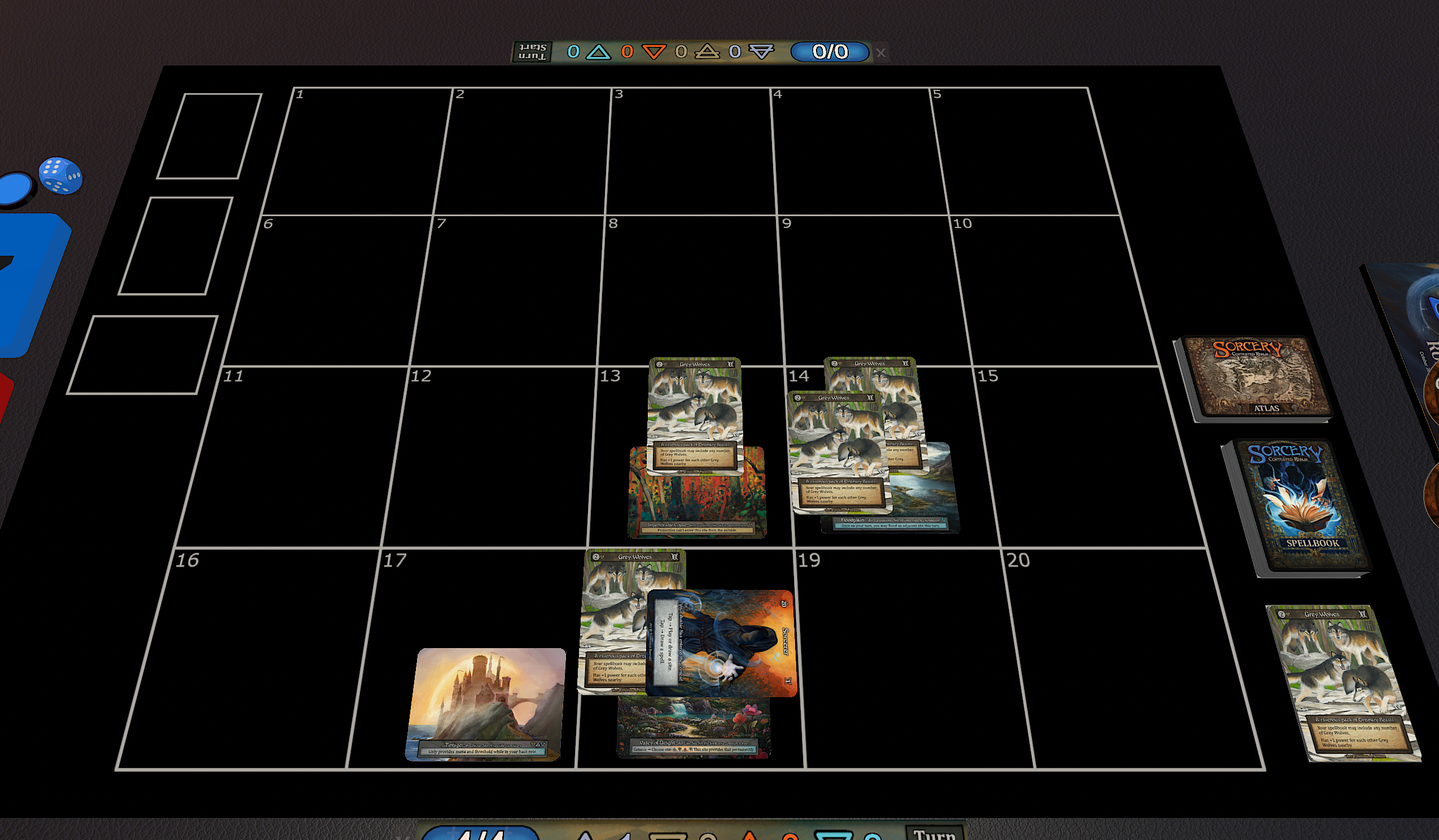
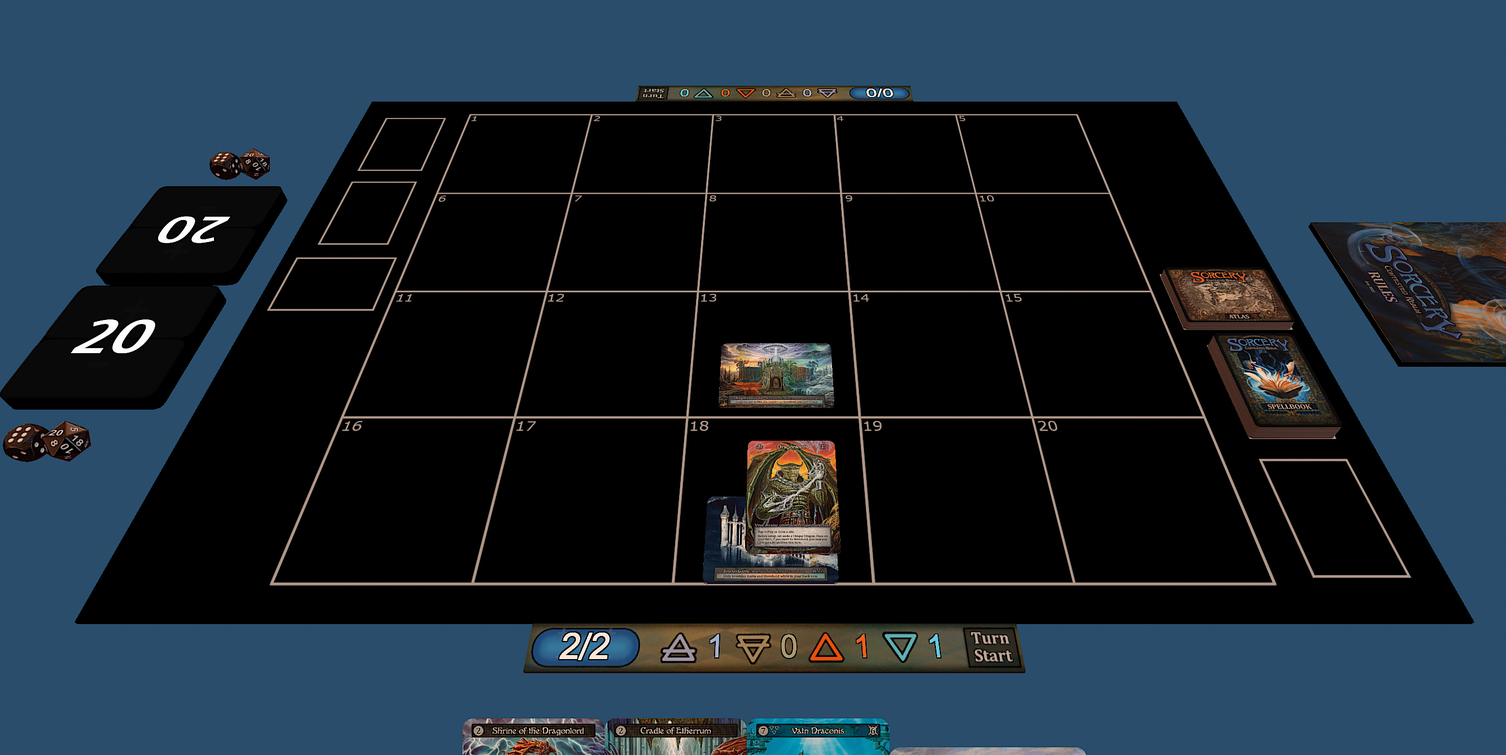
update file paths, add background color

diff --git a/README.md b/README.md
@@ -5,7 +5,7 @@
 ### How do I install this?
 
 1. Locate the TTS `Mods/Images` asset folder.
-2. Place [this black playmat image](httpssteamusercontentaakamaihdnetugc2458493930748633818AC370E3402228A9FB441339F4A1536AA897CF43D.jpg) into this directory (do not change the file name).
+2. Place [this black playmat image](httpsd27a44hjr9gen3cloudfrontnetassetsttsplaymatsartplaymatjpg.jpg) into this directory (do not change the file name).
 
 ### Where is the TTS Images folder?
 
@@ -30,12 +30,16 @@ I used the free [image editor GIMP](https://www.gimp.org/downloads/).
 1. Download and install GIMP, then open the [.xcf file](files/layer_file.xcf).
 1. Replace the `background` layer with any image you would like.
 1. `Export As` with the filename:
-    *  `httpssteamusercontentaakamaihdnetugc2458493930748633818AC370E3402228A9FB441339F4A1536AA897CF43D.jpg`
+    *  `httpsd27a44hjr9gen3cloudfrontnetassetsttsplaymatsartplaymatjpg.jpg`
+
+### BONUS FILE
+
+If you would also like to replace the pixelated background with a simple blue color, you can add [this image](httpsd27a44hjr9gen3cloudfrontnetassetsttsskyboxartskyboxjpg.jpg) into the same TTS directory.  A backup of the original is provided [here](files/BACKUP_httpsd27a44hjr9gen3cloudfrontnetassetsttsskyboxartskyboxjpg.jpg).
 
 ### Anything else?
 
 * Only you will see the custom playmat, your opponent will continue to see the default image.
-* A [backup of the original](files/BACKUP_httpssteamusercontentaakamaihdnetugc2458493930748633818AC370E3402228A9FB441339F4A1536AA897CF43D.jpg) is provided, just in case.  Rename it and remove `BACKUP_` from the filename and place it in `Images`.
+* A [backup of the original](files/BACKUP_httpsd27a44hjr9gen3cloudfrontnetassetsttsplaymatsartplaymatjpg.jpg) is provided, just in case.  Rename it and remove `BACKUP_` from the filename and place it in `Images`.
 * If the playmat has a red tint, it is due to TTS's ambient lighting. At the top of TTS go to `Options -> Lighting` then choose `Gradient`.
 * Future Sorcery TTS Mod updates may break this. The filename will be updated here if that happens.
 * Check out the [Four Cores](https://fourcores.xyz/install) app for all your Sorcery needs!
